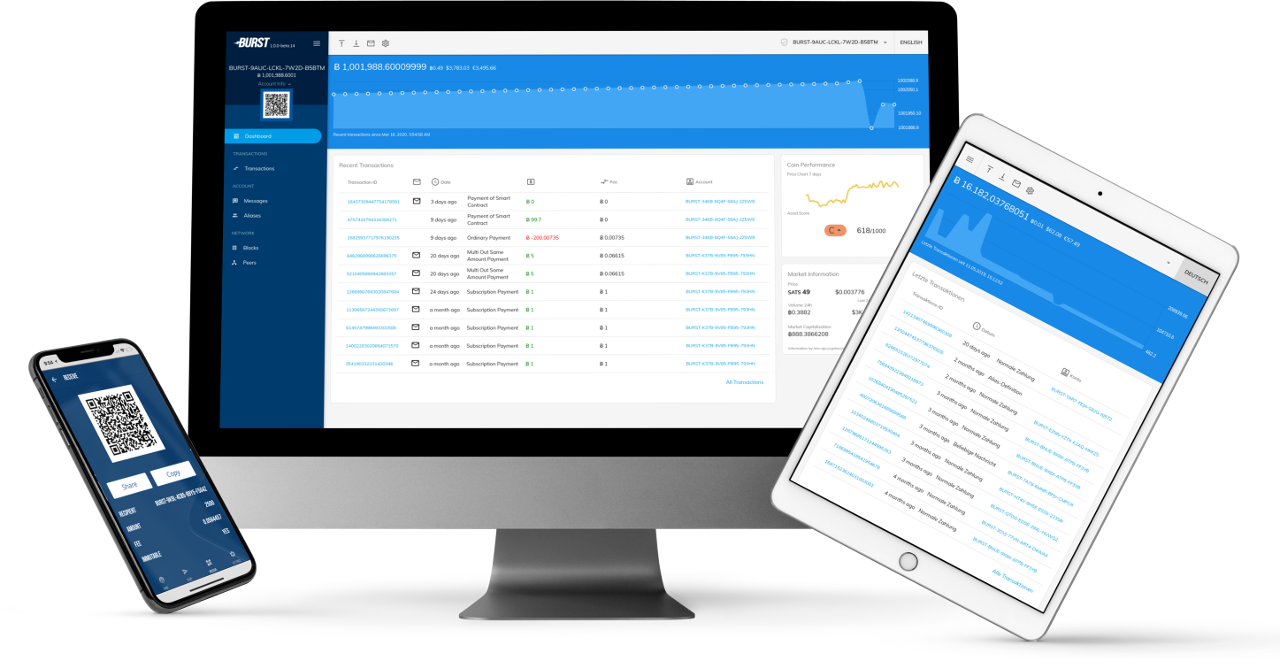
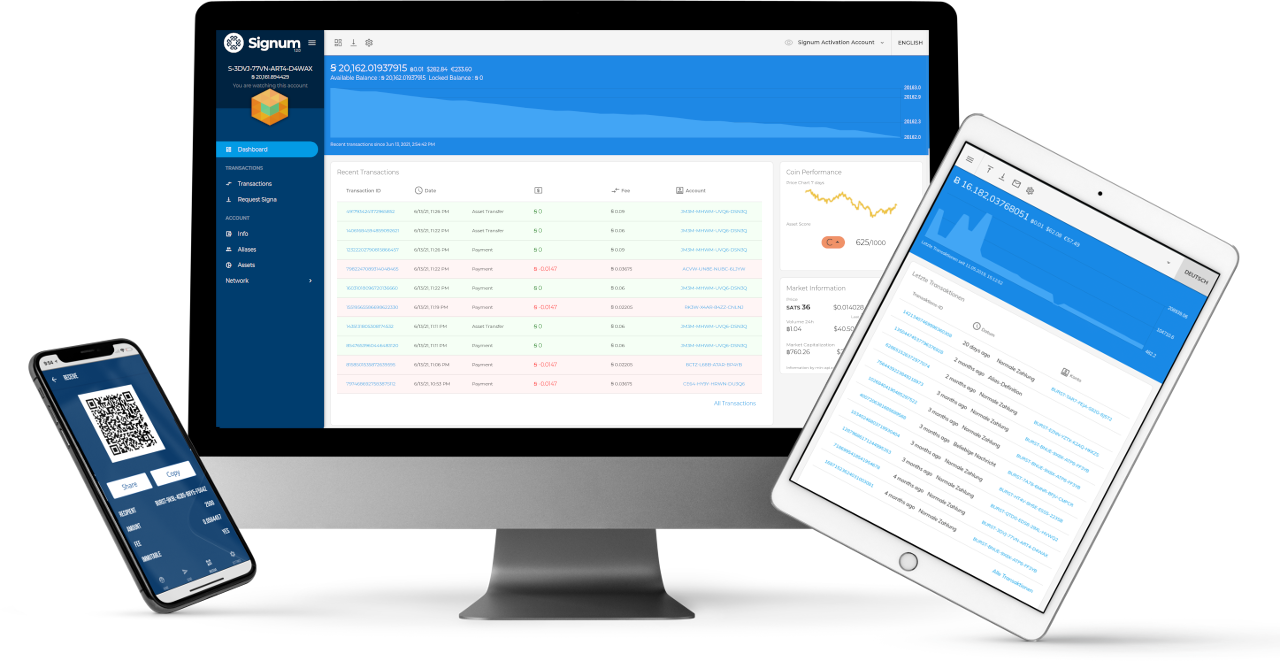
feat: signum rebrand partial

diff --git a/index.html b/index.html
@@ -20,29 +20,29 @@
 
     <meta charset="utf-8">
     <meta http-equiv="X-UA-Compatible" content="IE=edge"/>
-    <meta property="og:title" content="Phoenix - Cross-platform Wallet for Burstcoin">
-    <meta property="og:description" content="A modern, secure Burstcoin wallet for Windows, MacOS, Linux, Android, iOS">
+    <meta property="og:title" content="Phoenix - Cross-platform Wallet for the Signum blockchain platform">
+    <meta property="og:description" content="A modern, secure Signum wallet for Windows, MacOS, Linux, Android, iOS">
     <meta property="og:image" content="https://phoenix-wallet.rocks/thumbnail.jpg">
     <meta property="og:url" content="https://phoenix-wallet.rocks/index.html">
-    <meta name="og:title" content="Phoenix - Cross-platform Wallet for Burstcoin">
-    <meta name="og:description" content="A modern, secure Burstcoin wallet for Windows, MacOS, Linux, Android, iOS">
+    <meta name="og:title" content="Phoenix - Cross-platform Wallet for the Signum blockchain platform">
+    <meta name="og:description" content="A modern, secure Signum wallet for Windows, MacOS, Linux, Android, iOS">
     <meta name="og:image" content="https://phoenix-wallet.rocks/thumbnail.jpg">
     <meta name="og:url" content="https://phoenix-wallet.rocks/index.html">
     <meta name="twitter:card" content="summary"/>
-    <meta name="twitter:title" content="Phoenix - Cross-platform Wallet for Burstcoin"/>
+    <meta name="twitter:title" content="Phoenix - Cross-platform Wallet for the Signum blockchain platform"/>
     <meta name="twitter:description"
-          content="A modern, secure Burstcoin wallet for Windows, MacOS, Linux, Android, iOS"/>
+          content="A modern, secure Signum wallet for Windows, MacOS, Linux, Android, iOS"/>
     <meta name="twitter:image" content="https://phoenix-wallet.rocks/thumbnail.jpg"/>
-    <meta name="title" content="Phoenix - Cross-platform Wallet for Burstcoin"/>
+    <meta name="title" content="Phoenix - Cross-platform Wallet for the Signum blockchain platform"/>
     <meta name="author" content="ohager, blankey1337"/>
-    <meta name="description" content="Phoenix - Cross-platform Wallet for Burstcoin"/>
-    <meta name="keywords" content="Burstcoin, Mobile, Application, Wallet, Phoenix">
+    <meta name="description" content="Phoenix - Cross-platform Wallet for the Signum blockchain platform"/>
+    <meta name="keywords" content="Signum, Mobile, Application, Wallet, Phoenix">
     <meta name="copyright" content="Burst Apps Team">
 
     <meta name="viewport" content="width=device-width, initial-scale=1.0"/>
 
     <!-- SITE TITLE -->
-    <title>Phoenix - Cross-platform Wallet for Burstcoin</title>
+    <title>Phoenix - Cross-platform Wallet for Signum</title>
 
     <link rel="apple-touch-icon" sizes="57x57" href="/apple-icon-57x57.png">
     <link rel="apple-touch-icon" sizes="60x60" href="/apple-icon-60x60.png">
@@ -98,7 +98,7 @@
                     <ul class="navbar-nav ml-auto">
                         <li class="nav-item nl-simple"><a class="nav-link" href="#features">Features</a></li>
                         <li class="nav-item nl-simple"><a class="nav-link" href="#community">Community</a></li>
-                        <li class="nav-item nl-simple"><a class="nav-link" href="#burstjs">BurstJS</a></li>
+                        <li class="nav-item nl-simple"><a class="nav-link" href="#signumjs">SignumJS</a></li>
                         <li class="nav-item nl-simple"><a class="nav-link" href="#downloads">Download</a></li>
                         <li class="nav-item nl-simple">
                             <a class="nav-link" href="https://github.com/burst-apps-team/phoenix" target="_blank">
@@ -106,8 +106,8 @@
                             </a>
                         </li>
                         <li class="nav-item nl-simple">
-                            <a class="nav-link" href="https://www.burst-coin.org" target="_blank">
-                                Burstcoin
+                            <a class="nav-link" href="https://signum.network" target="_blank">
+                                Signum Network
                             </a>
                         </li>
                     </ul>
@@ -148,11 +148,11 @@
                         </div>
 
                         <!-- Title -->
-                        <h3 class="h3-sm">The ultimate <span>Burstcoin</span> crypto wallet</h3>
+                        <h3 class="h3-sm">The ultimate <img src="./images/signum_logo_white.svg" alt="Signum Logo" height="48" />&nbsp;<span>Signum</span> crypto wallet</h3>
 
                         <!-- Text -->
-                        <p class="p-lg">Phoenix is a next-generation wallet application for the Burstcoin
-                            blockchain.</p>
+                        <p class="p-lg">Phoenix is a next-generation wallet application for the Signum
+                            blockchain platform.</p>
 
                         <!-- Buttons Group -->
                         <div class="btns-group">
@@ -390,7 +390,7 @@
                             <!-- Text -->
                             <p>You do not need to be an expert to install the wallet. Just download and install with one
                                 click. No further configuration is necessary.
-                                It has never been so easy to install a <em>Burstcoin</em> wallet
+                                It is so easy to install the best <em>Signum</em> wallet
                             </p>
 
                         </div>
@@ -457,8 +457,8 @@
                     <div class="info-10-img text-center mb-40 wow fadeInRight" data-wow-duration="1.5s"
                          data-wow-delay="0.5s">
                         <picture>
-                            <source type="image/webp" srcset="images/Dashboard.beta14.webp">
-                            <img class="img-fluid rounded shadow" src="images/Dashboard.beta14.jpg"
+                            <source type="image/webp" srcset="images/phoenix-dashboard-1.2.webp">
+                            <img class="img-fluid rounded shadow" src="images/phoenix-dashboard-1.2.jpg"
                                  alt="Cross Platform Wallet">
                         </picture>
                     </div>
@@ -738,7 +738,7 @@
         </div>     <!-- End container -->
     </section>    <!-- END INFO-2 -->
 
-    <section id="burstjs" class="info-1-row pt-100 info-section division">
+    <section id="signumjs" class="info-1-row pt-100 info-section division">
         <div class="container">
             <div class="row d-flex align-items-center">
 
@@ -748,14 +748,14 @@
                     <div class="txt-block pc-45 mb-40 wow fadeInUp" data-wow-delay="0.3s">
 
                         <!-- Section ID -->
-                        <span class="section-id id-color">BUILD YOUR OWN BURSTCOIN APPS</span>
+                        <span class="section-id id-color">BUILD YOUR OWN SIGNUM APPS</span>
 
                         <!-- Title -->
                         <h3 class="h3-lg">The rock solid foundation of the Phoenix Wallet</h3>
 
                         <!-- List -->
                         <ul class="txt-list mb-35">
-                            <li>A state of the art programming library for Burstcoin</li>
+                            <li>A state of the art programming library for Signum Network</li>
                             <li>Written in Typescript for best developer experience</li>
                             <li>Applicable for all web and NodeJS applications</li>
                             <li>Quality Assurance through automated testing and code analysis</li>
@@ -779,7 +779,7 @@
                         </div>
                     </a>
                     <div class="img-block p-0 mt-40 mb-40">
-                        <img class="img-fluid" src="images/burst-js.svg" alt="Powered by BurstJS">
+                        <img class="img-fluid" src="images/burst-js.svg" alt="Powered by SignumJS">
                     </div>
 
                     <p>
@@ -795,13 +795,13 @@
                         <a href="https://codecov.io/gh/burst-apps-team/phoenix"><img
                                 src="https://codecov.io/gh/burst-apps-team/phoenix/branch/develop/graph/badge.svg"
                                 alt="codecov"></a>
-                        <img alt="License" src="https://img.shields.io/npm/l/@burstjs/core">
+                        <img alt="License" src="https://img.shields.io/npm/l/@signumjs/core">
                         <a href="https://lernajs.io/"><img
                                 src="https://img.shields.io/badge/maintained%20with-lerna-cc00ff.svg" alt="lerna"></a>
-                        <a href="https://www.npmjs.com/package/@burstjs/core"><img
-                                src="https://img.shields.io/npm/v/@burstjs/core.svg?style=flat" alt="npm"></a>
-                        <a href="https://www.jsdelivr.com/package/npm/@burstjs/core"><img
-                                src="https://data.jsdelivr.com/v1/package/npm/@burstjs/core/badge" alt="jsDelivr"></a>
+                        <a href="https://www.npmjs.com/package/@signumjs/core"><img
+                                src="https://img.shields.io/npm/v/@signumjs/core.svg?style=flat" alt="npm"></a>
+                        <a href="https://www.jsdelivr.com/package/npm/@signumjs/core"><img
+                                src="https://data.jsdelivr.com/v1/package/npm/@signumjs/core/badge" alt="jsDelivr"></a>
                     </p>
                 </div>
 
@@ -823,11 +823,11 @@
                     <div class="txt-block text-center mb-50 wow fadeInUp" data-wow-delay="0.3s">
 
                         <!-- Title -->
-                        <h3 class="h3-lg">Phoenix is the best way to Burst</h3>
+                        <h3 class="h3-lg">Phoenix is the best way to Signum</h3>
 
                         <!-- Text -->
-                        <p class="p-md">Phoenix is a modern Burstcoin wallet that combines security with ease of use,
-                            made with love by the Burst Apps Team.
+                        <p class="p-md">Phoenix is a modern crypto asset wallet for the Signum network that combines security with ease of use,
+                            made with love by the Signum Network Community.
                         </p>
                     </div>
                 </div>    <!-- END TEXT BLOCK -->
@@ -879,11 +879,11 @@
                         <ul class="foo-links clearfix">
                             <li><a class="internal-link" href="#features">Features</a></li>
                             <li><a class="internal-link" href="#community">Community</a></li>
-                            <li><a class="internal-link" href="#burstjs">BurstJS</a></li>
+                            <li><a class="internal-link" href="#signumjs">SignumJS</a></li>
                             <li><a class="internal-link" href="#downloads">Download</a></li>
                             <li><a class="internal-link" href="https://github.com/burst-apps-team/phoenix"
                                    target="_blank">Github</a></li>
-                            <li><a class="internal-link" href="https://www.burst-coin.org" target="_blank">Burstcoin</a>
+                            <li><a class="internal-link" href="https://signum.network" target="_blank">Signum Network</a>
                             </li>
                         </ul>
 

diff --git a/js/github.js b/js/github.js
@@ -85,9 +85,9 @@ const insertLatestVersionInHtml = latestVersion => {
 
 const insertLatestVersionDownloadLinksInHtml = latestVersion => {
   const baseUrl = `https://github.com/burst-apps-team/phoenix/releases/download/desktop-${latestVersion}`
-  const winUrl = `${baseUrl}/win-phoenix-burst-wallet-setup.${latestVersion}.exe`
-  const macUrl = `${baseUrl}/mac-phoenix-burst-wallet.${latestVersion}.dmg`
-  const linuxUrl = `${baseUrl}/linux-phoenix-burst-wallet.${latestVersion}.deb`
+  const winUrl = `${baseUrl}/win-phoenix-signum-wallet-setup.${latestVersion}.exe`
+  const macUrl = `${baseUrl}/mac-phoenix-signum-wallet.${latestVersion}.dmg`
+  const linuxUrl = `${baseUrl}/linux-phoenix-signum-wallet.${latestVersion}.deb`
   $('#download-win').attr('href', winUrl).removeClass('disabled')
   $('#download-mac').attr('href', macUrl).removeClass('disabled')
   $('#download-linux').attr('href', linuxUrl).removeClass('disabled')
